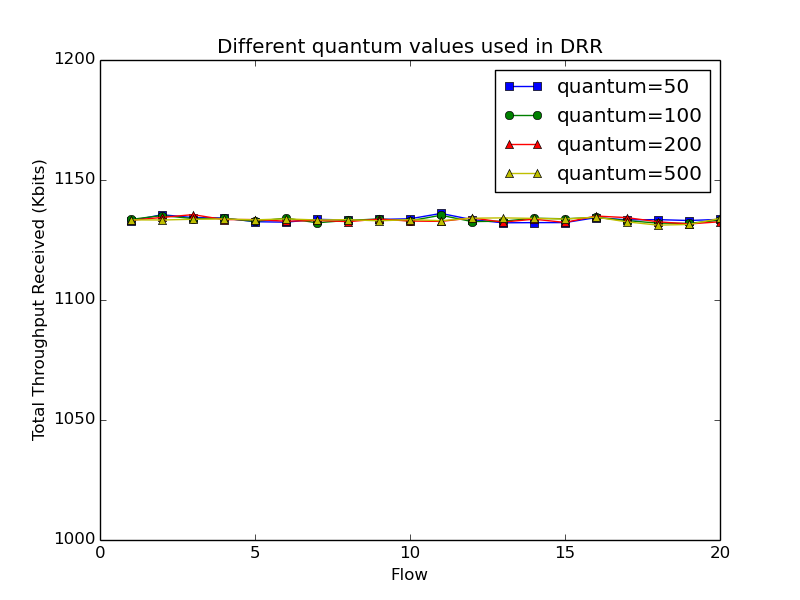
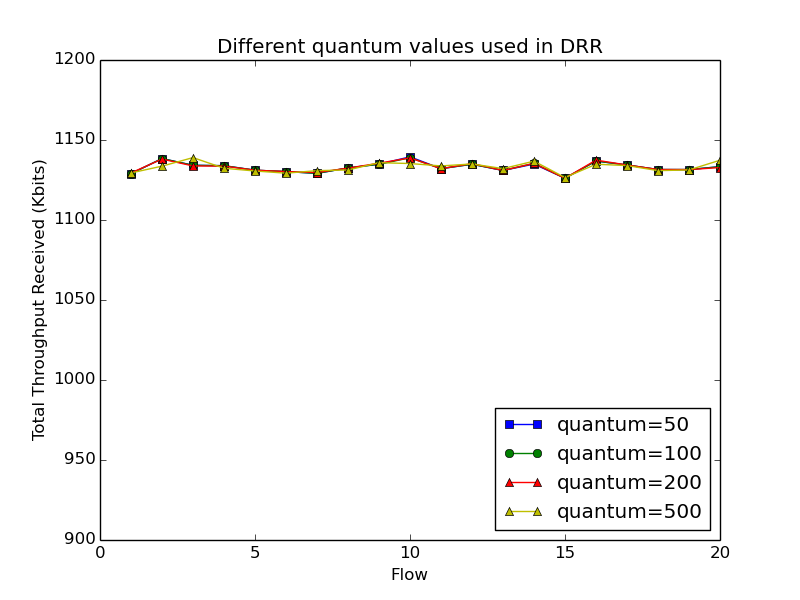
reduce duration to 200. Charts look much better now

diff --git a/scratch/drr.cc b/scratch/drr.cc
@@ -113,7 +113,7 @@ main (int argc, char *argv[])
   std::string normalFlowInterval = "50ms"; // 20 packets/s
   std::string illBehavedFlowInterval = "16.7ms"; // 60 packets/s
 
-  int time = 2000; // run simulation for x seconds
+  int time = 200; // run simulation for x seconds
 
   std::string queueDisc = "drr";
   uint32_t quantum = 50;
@@ -178,7 +178,7 @@ main (int argc, char *argv[])
   hostLink.SetQueue ("ns3::DropTailQueue", "MaxSize", StringValue ("1p"));
 
   PointToPointHelper bottleneckLink;
-  bottleneckLink.SetDeviceAttribute ("DataRate", StringValue ("100Kbps"));
+  bottleneckLink.SetDeviceAttribute ("DataRate", StringValue ("1Mbps"));
   bottleneckLink.SetChannelAttribute ("Delay", StringValue ("10ms"));
   bottleneckLink.SetQueue ("ns3::DropTailQueue", "MaxSize", StringValue ("1p"));
 

diff --git a/scratch/plot_figures.py b/scratch/plot_figures.py
@@ -79,10 +79,10 @@ plt.plot(drr100PortToThroughput.keys(), drr100PortToThroughput.values(), 'go-', 
 plt.plot(drr200PortToThroughput.keys(), drr200PortToThroughput.values(), 'r^-', label='quantum=200')
 plt.plot(drr500PortToThroughput.keys(), drr500PortToThroughput.values(), 'y^-', label='quantum=500')
 
-plt.legend(loc='upper right')
+plt.legend(loc='lower right')
 plt.ylabel('Total Throughput Received (Kbits)')
 plt.xlabel('Flow')
 plt.title('Different quantum values used in DRR')
-plt.ylim(1000, 1200)
+plt.ylim(900, 1200)
 plt.savefig(drrQuantumFileName)
 print('Saving ' + drrQuantumFileName)
